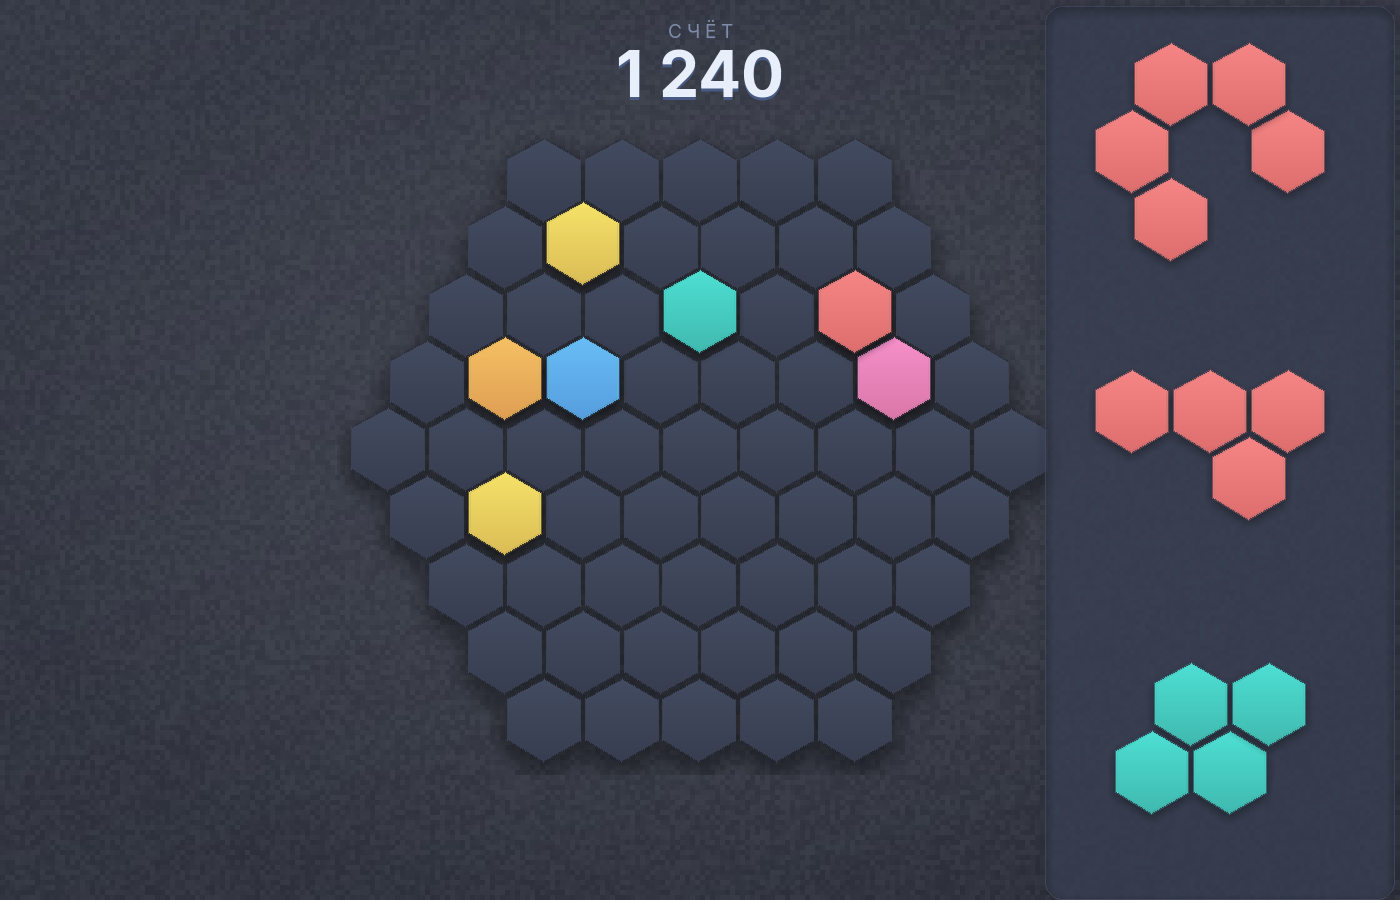
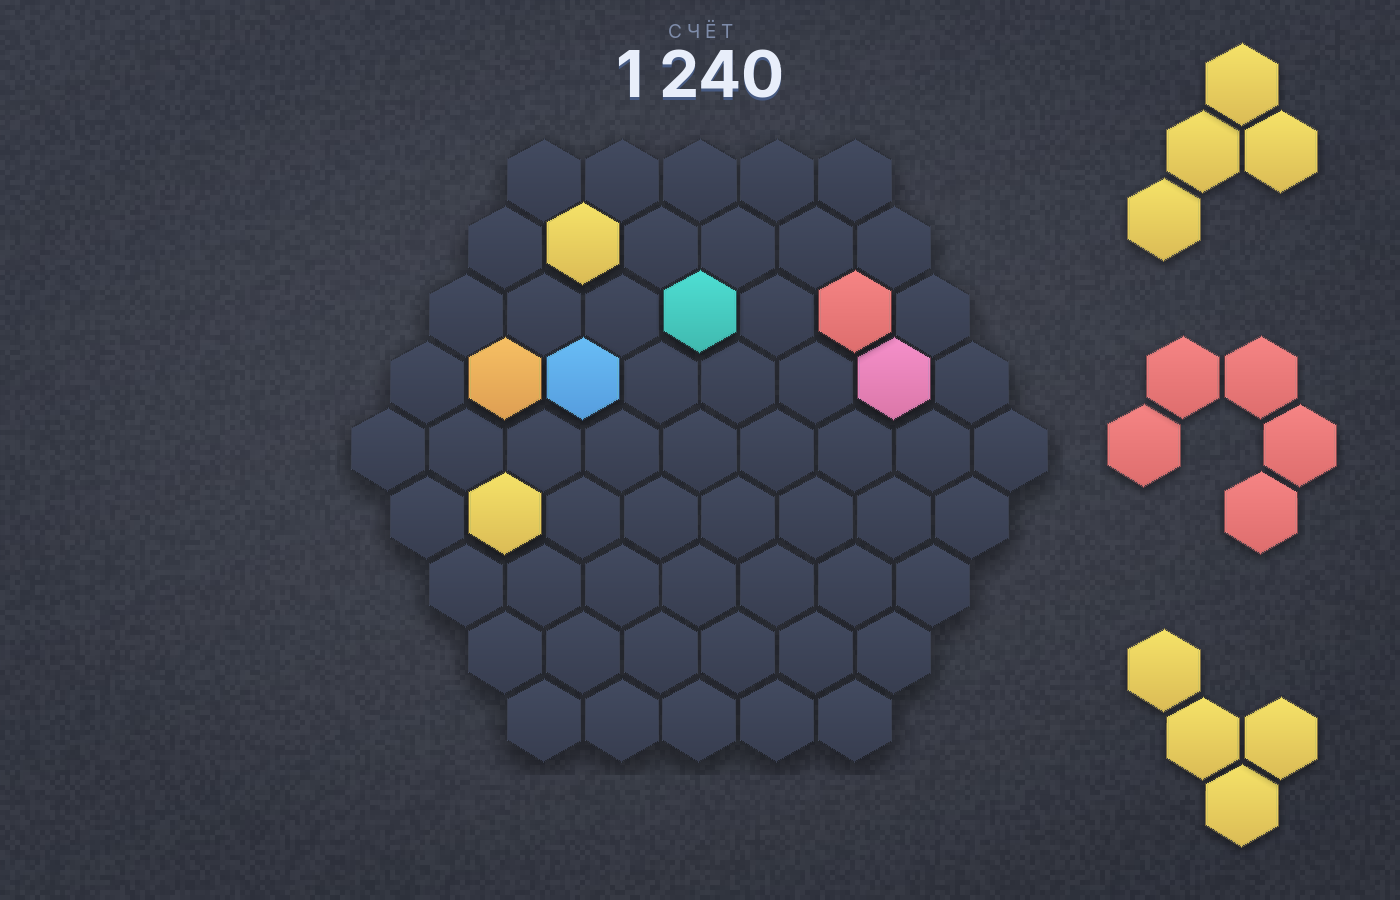
Убрана карточка-подложка вокруг пула фигур
Фигуры в пуле теперь лежат прямо на фоне, без скруглённой панели с тенью.
Удалены ставшие ненужными части:
- Pool.panel_rect и Pool._get_panel;
- отрисовка карточки в Pool.redraw;
- sprites.make_panel;
- ключи panel_fill / panel_border / panel_shadow в обеих темах;
- сброс pool._panel при смене темы в main.py.

Границы слоя пула теперь считаются по слотам фигур, а не по карточке.
Скриншоты в README обновлены.

Проверки: игра запускается, 12 партий с фиксированным seed дают прежний
результат (136), 128 кадров анимаций сверены с полной перерисовкой —
следов нет.

diff --git a/classes.py b/classes.py
@@ -5,7 +5,7 @@ from math import pi, sin, cos
 from settings import pg, W, H, LAYERS_COUNT, NORMAL, RADIUS, D_PARAMS, FIGURES_DATA, BACKGROUND_STEP
 from theme import theme
 from fonts import fonts
-from sprites import cache, make_panel, shade
+from sprites import cache, shade
 from utils import create_hexagon_coords, normalize_value, get_distance
 
 # Визуальные эффекты берут случайность из отдельного генератора, чтобы шум фона
@@ -441,8 +441,6 @@ class Figure:
 
 class Pool(Layer):
     BORDER = 10
-    CARD_PADDING = 12
-    CARD_RADIUS = 18
 
     def __init__(self, sc):
         Layer.__init__(self, sc)
@@ -473,37 +471,23 @@ class Pool(Layer):
         self.slots = []
         for index in range(3):
             self.slots.append({
-                'x': W - self.BORDER - self.slot_width - self.CARD_PADDING - 14,
+                'x': W - self.BORDER - self.slot_width - 14,
                 'y': (H - self.slot_height * 3 - self.BORDER * 2) // 2
                      + index * (self.slot_height + self.BORDER),
                 'figure': None
             })
 
-        self._panel = None
         self.refresh_slots()
         self.invalidate(self.bounds)
 
     @property
-    def panel_rect(self):
-        top = min(slot['y'] for slot in self.slots) - self.CARD_PADDING
-        bottom = max(slot['y'] for slot in self.slots) + self.slot_height + self.CARD_PADDING
-        left = min(slot['x'] for slot in self.slots) - self.CARD_PADDING
-        right = W - 4
-        return pg.Rect(int(left), int(top) + 4, int(right - left), int(bottom - top))
-
-    @property
     def bounds(self):
-        return self.panel_rect.inflate(60, 60)
-
-    def _get_panel(self):
-        rect = self.panel_rect
-        key = (rect.size, theme.name)
-        if self._panel is None or self._panel[0] != key:
-            card, shadow, margin = make_panel(
-                rect.size, self.CARD_RADIUS,
-                theme['panel_fill'], theme['panel_border'], 70)
-            self._panel = (key, card, shadow, margin)
-        return self._panel
+        rect = pg.Rect(int(self.slots[0]['x']), int(self.slots[0]['y']),
+                       int(self.slot_width), int(self.slot_height))
+        for slot in self.slots[1:]:
+            rect = rect.union(pg.Rect(int(slot['x']), int(slot['y']),
+                                      int(self.slot_width), int(self.slot_height)))
+        return rect.inflate(40, 40)
 
     def refresh_slots(self):
         """Метод проверяет слоты и если находит пустой - добавляет в него фигуру из списка заранее созданных"""
@@ -565,12 +549,6 @@ class Pool(Layer):
 
     def redraw(self, rect):
         self.surface.fill((0, 0, 0, 0), rect)
-
-        panel = self.panel_rect
-        _, card, shadow, margin = self._get_panel()
-        if rect.colliderect(panel):
-            self.surface.blit(shadow, (panel.x - margin, panel.y - margin))
-            self.surface.blit(card, panel.topleft)
 
         for slot in self.slots:
             figure = slot['figure']

diff --git a/sprites.py b/sprites.py
@@ -114,20 +114,6 @@ def _trim(surface):
     return trimmed.convert_alpha()
 
 
-def make_panel(size, radius, fill, border, shadow_alpha):
-    """Карточка со скруглёнными углами и мягкой тенью."""
-    card = pg.Surface(size, pg.SRCALPHA)
-    pg.draw.rect(card, fill, card.get_rect(), border_radius=radius)
-    pg.draw.rect(card, border, card.get_rect(), width=1, border_radius=radius)
-
-    margin = 20
-    shadow = pg.Surface((size[0] + margin * 2, size[1] + margin * 2), pg.SRCALPHA)
-    pg.draw.rect(shadow, (*border[:3], shadow_alpha),
-                 (margin, margin + 4, size[0], size[1]), border_radius=radius)
-    shadow = pg.transform.box_blur(shadow, 9)
-    return card, shadow, margin
-
-
 class SpriteCache:
     """Кэширует спрайты по (состояние, индекс цвета, шаг масштаба).
 

diff --git a/theme.py b/theme.py
@@ -36,11 +36,6 @@ LIGHT = {
         (240, 110, 170),
     ],
 
-    # Панель пула
-    'panel_fill': (255, 255, 255, 150),
-    'panel_border': (210, 216, 230, 190),
-    'panel_shadow': (30, 40, 70, 70),
-
     # Текст
     'text_primary': (44, 54, 82),
     'text_secondary': (130, 142, 168),
@@ -78,10 +73,6 @@ DARK = {
         (186, 146, 255),
         (250, 132, 186),
     ],
-
-    'panel_fill': (48, 54, 72, 170),
-    'panel_border': (74, 82, 104, 200),
-    'panel_shadow': (0, 0, 0, 110),
 
     'text_primary': (232, 238, 250),
     'text_secondary': (126, 140, 170),

diff --git a/main.py b/main.py
@@ -38,7 +38,6 @@ def run():
         """
         theme.toggle()
         background.rebuild()
-        pool._panel = None
         field._shadow = None
         tab._rendered = {}
         renderer.invalidate_all()
